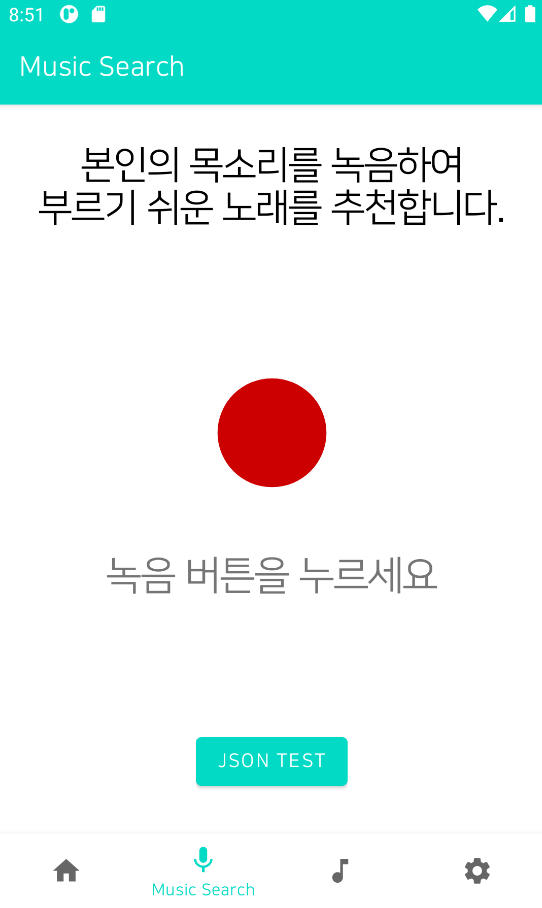
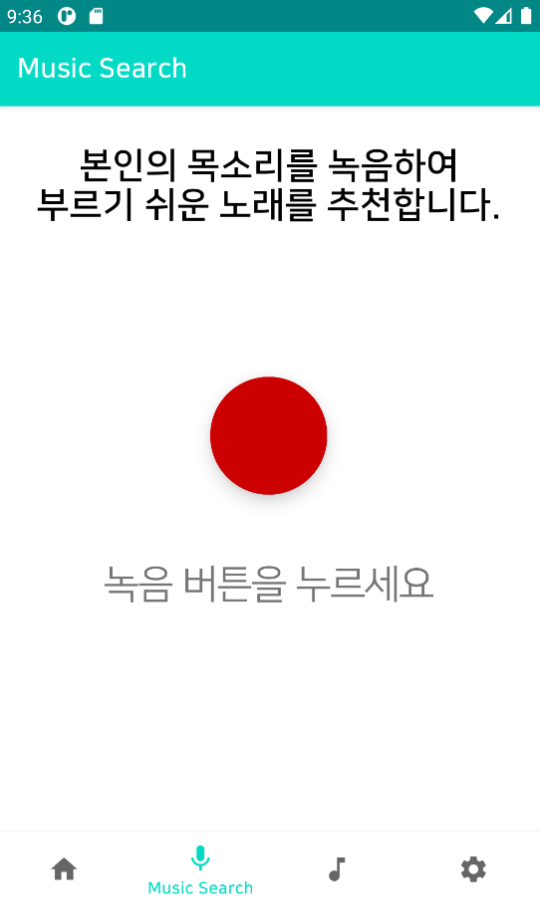
screen shot update

diff --git a/app/src/main/java/com/example/rec_commend/ui/SearchFragment.java b/app/src/main/java/com/example/rec_commend/ui/SearchFragment.java
@@ -123,6 +123,15 @@ public abstract class SearchFragment extends Fragment {
             }
         });
 
+        //DEBUG
+        Button testBtn = root.findViewById(R.id.json_test_btn);
+        testBtn.setOnClickListener((v)->{
+            Bundle bundle = new Bundle();
+            bundle.putString("jsonData", testJson);
+            bundle.putString("searchMode", searchMode);
+            Navigation.findNavController(v).navigate(R.id.navigation_song_list, bundle);
+        });
+
         return root;
     }
     @Override

diff --git a/README.md b/README.md
@@ -3,7 +3,8 @@
 ## Screen shots
 
 
-![](./screenshot/home.png) | ![](./screenshot/Music_Search.png) | ![](./screenshot/Tune_Search.png) | ![](./screenshot/Result.png)
+![](./screenshot/start.png)|![](./screenshot/home.png)|![](./screenshot/music_search.png)|![](./screenshot/tune_search.png)
 --|--|--|--
-![](./screenshot/search1.png)|![](./screenshot/search2.png)|![](./screenshot/Option.png)|![](./screenshot/preference1.png)
-![](./screenshot/preference2.png)|![](./screenshot/voice_color.png)|![](./screenshot/share.png)|![](./screenshot/timbre.png)
+![](./screenshot/search1.png)|![](./screenshot/search2.png)|![](./screenshot/result.png)|![](./screenshot/voice_color.png)
+![](./screenshot/share.png)|![](./screenshot/timbre.png)|![](./screenshot/option.png)|![](./screenshot/preference1.png)
+![](./screenshot/preference2.png)|||
